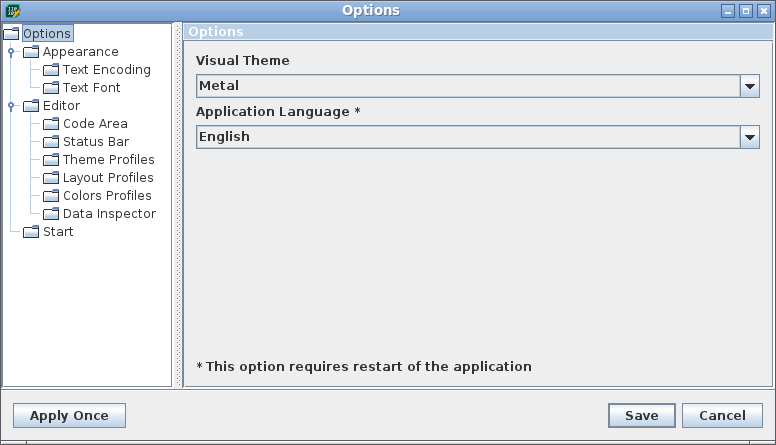
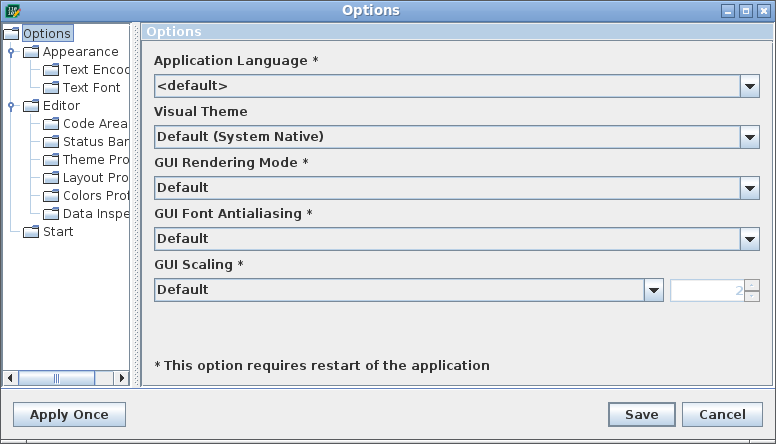
Support for macros - 10

Changed region(s): [[0.0, 0.0293, 0.9897, 0.8784], [0.9588, 0.6149, 0.9897, 0.6734]]

diff --git a/apps/bined-editor/help/manual.html b/apps/bined-editor/help/manual.html
@@ -2,7 +2,7 @@
 <body>
 
 <h1 id="user-manual-for-bined">User Manual for BinEd Editor</h1>
-<p>BinEd is free and open source hexadecimal stand-alone viewer/editor written in Java.</p>
+<p>BinEd is free and open source stand-alone hex viewer/editor written in Java.</p>
 <h1 id="features">Features</h1>
 <ul>
 <li>Visualize data as numerical (hexadecimal) codes and text representation</li>
@@ -22,7 +22,7 @@
 <p>Project uses Apache License 2.0, see:</p>
 <p><a class="urlextern"  href="https://www.apache.org/licenses/LICENSE-2.0">https://www.apache.org/licenses/LICENSE-2.0</a></p>
 <h2 id="requirements">Requirements</h2>
-<p>Application can be executed on any platform supported by Java 8, including Microsoft Windows, macOS, variants of Linux or BSD and application should have the same minimum requirements as Java. It should be also ok to use any newer version of the Java. DMG installer for macOS requires Java 11. </p>
+<p>Application can be executed on any platform supported by Java 8, including Microsoft Windows, macOS, variants of Linux or BSD and application should have the same minimum requirements as Java. It should be also ok to use any newer version of the Java. DMG installer for macOS requires Java 11.</p>
 <p>For instruction on how to install Java on your operating system please search on Internet or visit:</p>
 <p><a class="urlextern"  href="https://java.com">https://java.com</a></p>
 <h2 id="installation">Installation</h2>
@@ -33,6 +33,8 @@
 <p>For macOS there is installation file (dmg image) available.</p>
 <p>For some Linux variants there are Debian and RPM packages available.</p>
 <p>Alternatively, or for other operating systems, please use general ZIP variant / file. You&#39;ll need to extract content of the file into directory of your choice. This action is different on various operating systems - please search on the Internet for instructions on how to do this step on your operating system.</p>
+<p>You can also run limited version in modern web browser using <a class="urlextern"  href="https://labs.leaningtech.com/cheerpj">CheerpJ</a>:</p>
+<p><a class="urlextern"  href="https://bined.exbin.org/editor/web">https://bined.exbin.org/editor/web</a></p>
 <h3 id="installation-on-windows">Installation on Windows</h3>
 <p>Installation package for Windows is typical wizard dialog (created with Nullsoft NSIS tool).</p>
 <center><img src="images/bined_windows_installer.png" title="Installer - Step 1" alt="Installer - Step 1" /></center>
@@ -69,7 +71,10 @@
 <pre style="background-color: rgb(246, 248, 250); padding: 8px;"><code>java -jar bined.jar</code></pre>
 <p>Application also accepts few command line parameters, like for opening specific file on start.</p>
 <p>Usage: &quot;bined &lt;options&gt; &lt;file&gt;&quot;</p>
-<p>&quot;--help&quot; parameter to see available commands  &quot;-multi_file&quot; forces multi file / tab switching mode  &quot;-single_file&quot; forces single file mode</p>
+<p>&quot;--help&quot; parameter to see available commands<br/>
+&quot;-multi_file&quot; forces multi file / tab switching mode<br/>
+&quot;-single_file&quot; forces single file mode<br/>
+&quot;--fullscreen&quot; forces full screen mode</p>
 <h1 id="main-window">Main Window</h1>
 <p>BinEd is desktop application with typical layout.</p>
 <center><img src="images/main_window.png" title="Main Window" alt="Main Window" /></center>
@@ -100,7 +105,7 @@
 <li>Undo / redo actions</li>
 <li>Area selection and clipboard operations</li>
 <li>Find and replace actions</li>
-<li>Tools related to editing, navigation and bookmark</li>
+<li>Tools related to editing, navigation, bookmarking and macro support</li>
 </ul>
 <center><img src="images/view_menu.png" title="View Menu" alt="View Menu" /></center>
 <p>View menu allows adjusting various options related to displaying properties:</p>
@@ -108,6 +113,8 @@
 <li>Toggle visibility of the sections of the main window</li>
 <li>View options for code area - see. <a  href="#view-options">view options</a></li>
 </ul>
+<p>Tools menu provides additional actions like file compare and clipboard/item dragging content tools.</p>
+<p>Help menu provides information about application and access to help / manual content included with application or available online.</p>
 <h2 id="toolbar">Toolbar</h2>
 <p>Toolbar provides access to some of typically used actions.</p>
 <ul>
@@ -129,20 +136,20 @@
 <h2 id="status-bar">Status Bar</h2>
 <p>Status bar is bottom section of the main window.</p>
 <center><img src="images/status_bar.png" title="Status Bar" alt="Status Bar" /></center>
-<p>It has following 5 sections - from left to right.</p>
+<p>It has following 5 sections - from left to right:</p>
 <h3 id="current-encoding">Current Encoding</h3>
 <p>Left click cycles throw set list of encodings.</p>
 <p>Popup menu provides ability to select specific encoding from the list or to manage it.</p>
 <h3 id="document-size">Document Size</h3>
 <p>Shows document size in specific code type and in brackets difference to size of the saved document.</p>
 <p>If there is selection active in the document then it shows size of the selection to size of the document.</p>
-<p>Tooltip shows document size in all three code types.</p>
+<p>Tooltip shows document size in three numeral systems of base 8, 10 and 16.</p>
 <center><img src="images/document_size_tooltip.png" title="Status Bar" alt="Status Bar" /></center>
 <p>Popup menu allows selecting code type or to copy the value.</p>
 <h3 id="cursor-position">Cursor Position</h3>
 <p>Shows current position of the cursor in the document as position in the document and position in the code.</p>
 <p>If there is selection active in the document then it shows start and end position of the selection.</p>
-<p>Tooltip shows cursor position in all three code types.</p>
+<p>Tooltip shows cursor position in three numeral systems of base 8, 10 and 16.</p>
 <p>Popup menu allows selecting code type or to copy the value.</p>
 <h3 id="memory-mode">Memory Mode</h3>
 <p>Shows currently used memory mode.</p>
@@ -196,27 +203,6 @@
 <pre style="background-color: rgb(246, 248, 250); padding: 8px;"><code>Menu / Edit / Edit Selection</code></pre>
 <center><img src="images/edit_selection_dialog.png" title="Edit Selection Dialog" alt="Edit Selection Dialog" /></center>
 <p>You can specify position relative to current position, start or end of the document.Position can be specified in octal, decimal or hexadecimal base.</p>
-<h2 id="clipboard-content">Clipboard Content</h2>
-<p>Tool to show available content currently stored in system clipboard.</p>
-<p>It provides list of available data flavors (variants of data representation) and allows to show available information about content.</p>
-<center><img src="images/clipboard_content_dialog.png" title="Clipboard Content Dialog" alt="Clipboard Content Dialog" /></center>
-<h2 id="bookmarks">Bookmarks</h2>
-<p>Bookmarks allow to save specific position / ranges and mark them with color.</p>
-<p>First 10 bookmark records are available for quick access, so that they can be set, cleared and jump to with keyboard shortcuts.</p>
-<p>Bookmark functionality is available in main menu and provides list of quick access bookmarks to jump to and access to bookmarks manager.</p>
-<pre style="background-color: rgb(246, 248, 250); padding: 8px;"><code>Menu / Edit / Bookmark</code></pre>
-<p>Bookmarks manager allows to edit bookmark records:</p>
-<ul>
-<li>Set start/end position and length</li>
-<li>Assign color to highlight background for specific bookmark</li>
-</ul>
-<center><img src="images/bookmarks_manager_dialog.png" title="Bookmarks Manager Dialog" alt="Bookmarks Manager Dialog" /></center>
-<p>First 10 bookmark records have assigned keyboard shortcuts for activation:</p>
-<ul>
-<li>Ctrl/Meta 0..9 - jump to bookmark&#39;s start position</li>
-<li>Ctrl/Meta+Alt 0..9 - replaces bookmark to current cursor position</li>
-<li>Ctrl/Meta+Alt+Shift 0..9 - clears bookmark</li>
-</ul>
 <h2 id="find-or-replace-data">Find or Replace Data</h2>
 <p>Use this action to find specific text or sequence of codes:</p>
 <pre style="background-color: rgb(246, 248, 250); padding: 8px;"><code>Menu / Edit / Find
@@ -232,11 +218,59 @@ Menu / Edit / Replace</code></pre>
 <pre style="background-color: rgb(246, 248, 250); padding: 8px;"><code>Menu / Edit / Insert Data</code></pre>
 <p>Data will be inserted or will replace previous data depending on the current edit mode.</p>
 <center><img src="images/insert_data_dialog.png" title="Insert Data Dialog" alt="Insert Data Dialog" /></center>
-<p>Length can be specified in octal, decimal or hexadecimal base.</p>
+<p>On left side there is list of available operations and on right side there are additional parameters and  output preview.</p>
+<h2 id="convert-data-action">Convert Data Action</h2>
+<p>Use this action to convert selected data or whole content into different form:</p>
+<pre style="background-color: rgb(246, 248, 250); padding: 8px;"><code>Menu / Edit / Convert Data</code></pre>
+<p>Data will be converted and replace previous data or into clipboard / new window.</p>
+<center><img src="images/convert_data_dialog.png" title="Convert Data Dialog" alt="Convert Data Dialog" /></center>
+<p>On left side there is list of available operations and on right side there are additional parameters and  output preview.</p>
+<h2 id="bookmarks">Bookmarks</h2>
+<p>Bookmarks allow to save specific position / range and mark them with color.</p>
+<p>Bookmark functionality is accessible in main edit menu and provides list of quick access bookmarks to jump to and access to bookmarks manager.</p>
+<pre style="background-color: rgb(246, 248, 250); padding: 8px;"><code>Menu / Edit / Bookmark</code></pre>
+<p>First 10 bookmark records are available for quick access, so that they can be set, cleared and jump to with keyboard shortcuts.</p>
+<ul>
+<li>Ctrl/Meta 0..9 - jump to bookmark&#39;s start position</li>
+<li>Ctrl/Meta+Alt 0..9 - replaces bookmark to current cursor position</li>
+<li>Ctrl/Meta+Alt+Shift 0..9 - clears bookmark</li>
+</ul>
+<p>Bookmarks manager allows to edit all bookmark records:</p>
+<ul>
+<li>Set start/end position and length</li>
+<li>Assign color to highlight background for specific bookmark</li>
+</ul>
+<center><img src="images/bookmarks_manager_dialog.png" title="Bookmarks Manager Dialog" alt="Bookmarks Manager Dialog" /></center>
+<h2 id="macro">Macro</h2>
+<p>Support for macro operations allows to execute sequence of operations with single action.</p>
+<p>Macro functionality is accessible in main edit menu and provides list of first 10 macro records, actions to control action sequence recording and macro manager.</p>
+<pre style="background-color: rgb(246, 248, 250); padding: 8px;"><code>Menu / Edit / Macro</code></pre>
+<p>Macro operation is sequence of steps available from fixed set of commands.</p>
+<p>Syntax of command is: commandname(parameter1, .. parameterX)</p>
+<p>Currently available commands are:</p>
+<ul>
+<li>key-press(T, oN), enter-key, backspace-key, delete-key</li>
+<li>caret-set, caret-move(D, oN)</li>
+<li>clipboard-cut, clipboard-copy, clipboard-copy-as-code, clipboard-paste, clipboard-paste-from-code, clipboard-delete</li>
+<li>selection-set, selection-update(D, oN), selection-select-all, selection-clear</li>
+<li>edit-operation-change</li>
+<li>search-find-text(T), search-find-again</li>
+</ul>
+<p>Parameters can be number, text string or direction (UP, DOWN, LEFT, RIGHT, PAGE_UP, PAGE_DOWN, ROW_START, ROW_END, DOC_START, DOC_END, SWITCH_SECTION), some parameters are optional.</p>
+<p>Macro manager allows to edit steps of macro records.</p>
+<center><img src="images/macro_manager_dialog.png" title="Macro Manager Dialog" alt="Macro Manager Dialog" /></center>
 <h2 id="compare-files-action">Compare Files Action</h2>
 <p>Use this action to compare content of two files:</p>
 <pre style="background-color: rgb(246, 248, 250); padding: 8px;"><code>Menu / Tools / Compare Files</code></pre>
-<center><img src="images/compare_files_dialog.png" title="Insert Data Dialog" alt="Insert Data Dialog" /></center>
+<center><img src="images/compare_files_dialog.png" title="Compare Files Dialog" alt="Compare Files Dialog" /></center>
+<h2 id="clipboard-content">Clipboard Content</h2>
+<p>Tool to show available content currently stored in system clipboard.</p>
+<p>It provides list of available data flavors (variants of data representation) and allows to show available information about content.</p>
+<center><img src="images/clipboard_content_dialog.png" title="Clipboard Content Dialog" alt="Clipboard Content Dialog" /></center>
+<h2 id="drag-and-drop-content">Drag and Drop Content</h2>
+<p>Tool to show available content transferred by drag &amp; drop operation.</p>
+<p>It provides list of available data flavors (variants of data representation) and allows to show available information about content.</p>
+<center><img src="images/dragdrop_content_dialog.png" title="Drag and Drop Content Dialog" alt="Drag and Drop Content Dialog" /></center>
 <h2 id="print-document">Print Document</h2>
 <p><strike>Not available</strike></p>
 <h1 id="view-options">View Options</h1>
@@ -275,7 +309,7 @@ Menu / Edit / Replace</code></pre>
 </ul>
 <h2 id="choose-font">Choose Font</h2>
 <p>You can change font used in code area.</p>
-<p>	Menu / Tools / Set Font</p>
+<p>	Menu / View / Set Font</p>
 <pre style="background-color: rgb(246, 248, 250); padding: 8px;"><code>Options / Appearance / Text Font</code></pre>
 <center><img src="images/select_font_dialog.png" title="Select Font Dialog" alt="Select Font Dialog" /></center>
 <p>You can select specific family of the font, size in pixels, style parameters like bold and italic.</p>
@@ -291,8 +325,10 @@ Menu / Edit / Replace</code></pre>
 <p>Active encoding can be either selected by popup menu or cycled through by single click in the status bar.</p>
 <h1 id="options-dialog">Options Dialog</h1>
 <center><img src="images/options_dialog.png" title="Options Dialog" alt="Options Dialog" /></center>
+<p>Main section provides options for overall look of the application. Application supports languages switching depending appropriate language plugin is available.</p>
+<p>It&#39;s also possible to choose visual style of the application and tweak rendering options related to antialiasing and scaling.</p>
 <h2 id="code-area">Code Area</h2>
-<p>Code area options allows setting various options related to code area.</p>
+<p>Code area section allows setting various options related to code area.</p>
 <center><img src="images/code_area_options.png" title="Code Area Options" alt="Code Area Options" /></center>
 <p>Maximum bytes per row allows setting how many codes / preview characters will be visible on the page. </p>
 <p>In default mode (16) code area always shows 16 codes per row.</p>
@@ -300,7 +336,7 @@ Menu / Edit / Replace</code></pre>
 <p>Row position length parameters allows setting of behavior of row position codes. </p>
 <p>In default mode (0, 0) row positions will have as many digits as needed for current size of the document.</p>
 <h2 id="status-bar">Status Bar</h2>
-<p>Options for status bar allows to set same options as available in popup menu actions in status bar.</p>
+<p>Section for status bar allows to set same options as available in popup menu actions in status bar.</p>
 <center><img src="images/status_bar_options.png" title="Code Area Options" alt="Code Area Options" /></center>
 <h2 id="layout">Layout</h2>
 <p>Multiple layout profiles are supported. You can define your own or use one from templates.</p>
